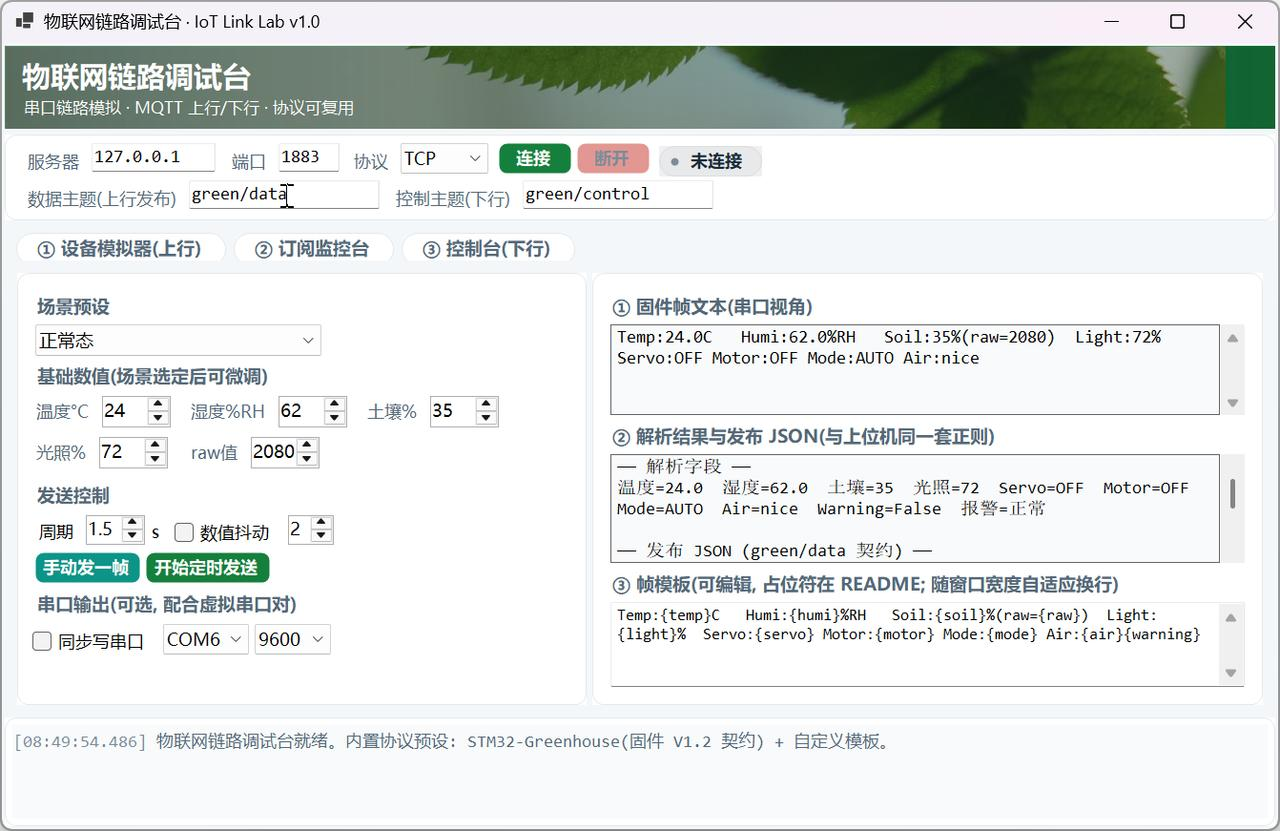
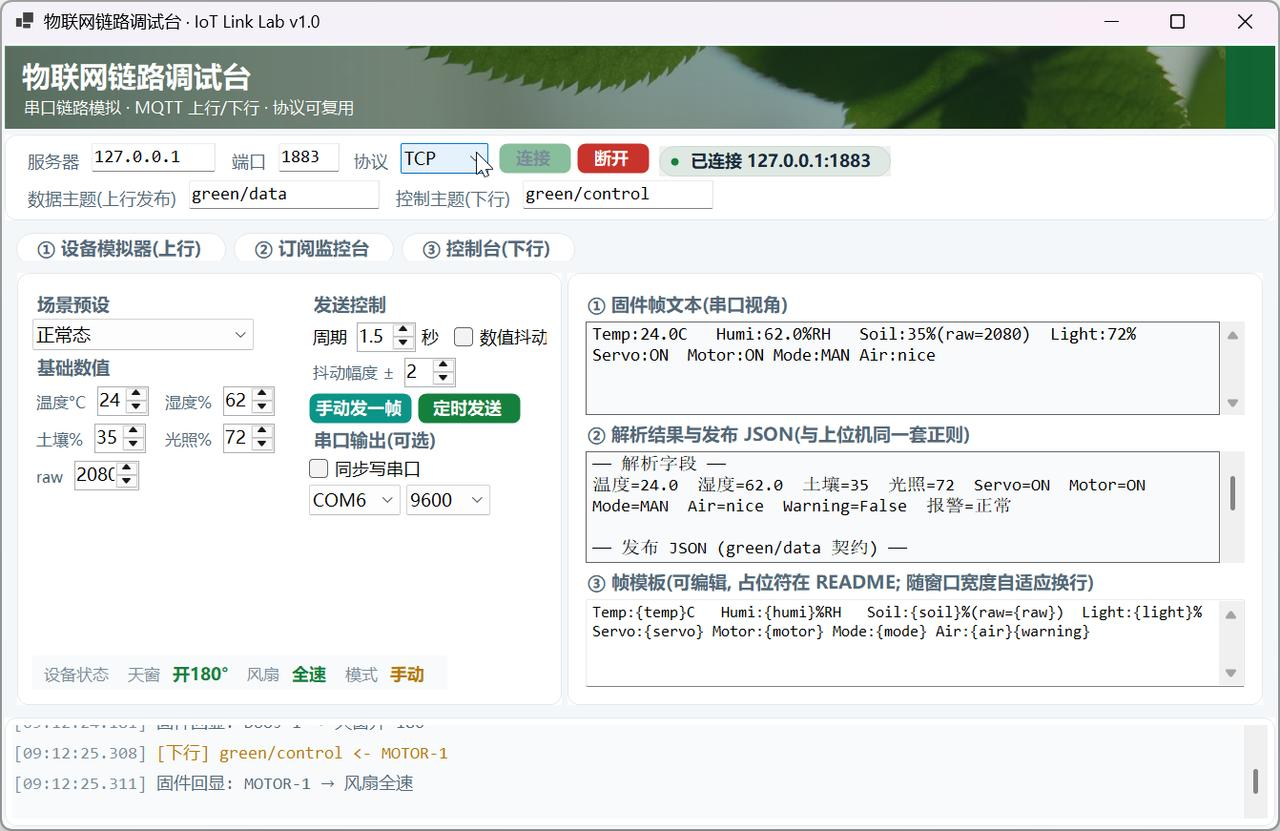
fix(测试工具): 布局按 1280x720 逻辑屏重排 —— 消除全部错位/重叠/裁切
- 根因: 窗口默认 1360x880 超出 1920x1200@150% 的可用区域被系统裁剪, 加上多处
  绝对像素在 DPI 缩放下装不下文字 → 呈现为重叠/截断。改为按 WorkingArea 收敛尺寸
- 导航胶囊重影: Label 基类文本绘制与自绘叠加 → 新建 NavChip 控件(单绘制源, 宽度按文字实测)
- 横幅副标题被裁: 高度改为字体实测计算, 文字绘于 Paint 内按实测高度堆叠居中
- 连接栏超宽截断: 单行改两行 TLP(连接参数 / 数据与控制主题)
- 状态徽章圆点与文字重叠: 剥离文本自带 '● ' 前缀, 宽度按文字自适应
- 左卡改双栏结构(场景+数值 | 发送+串口) + 底部整宽'设备状态'条, 矮屏无需滚动
- 右卡三视图(帧文本 32% / 解析 JSON 38% / 帧模板 30%), 帧模板随宽度换行不再切行
- 窄栏控件尺寸校正(数值框/状态值/串口下拉/raw 四位数), 状态条跨两栏整宽
- 新增设备状态实时刷新(天窗/风扇/模式随下行指令变化) 与 F5 连接 / F6 断开快捷键
- 监控台列表 400 条封顶后不再追加 → 滚动窗口
- 三页截图在 1280x720 逻辑屏实测更新; README 补布局设计与快捷键说明

diff --git a/05-Testing-Tool/WinFormsApp1/SimulatorTab.cs b/05-Testing-Tool/WinFormsApp1/SimulatorTab.cs
@@ -20,6 +20,7 @@ namespace IotLinkLab
         private CheckBox _chkSerial = null!;
         private ComboBox _comPort = null!, _comBaud = null!;
         private SerialPort? _serial;
+        private Label _stateServo = null!, _stateMotor = null!, _stateMode = null!;   // 模拟设备实时状态
 
         private System.Windows.Forms.Timer _timer = null!;
         private readonly Random _rnd = new();
@@ -52,63 +53,109 @@ namespace IotLinkLab
             DoubleBuffered = true;
 
             var root = new TableLayoutPanel { Dock = DockStyle.Fill, ColumnCount = 2, RowCount = 1, BackColor = Color.Transparent };
-            root.ColumnStyles.Add(new ColumnStyle(SizeType.Percent, 46f));
-            root.ColumnStyles.Add(new ColumnStyle(SizeType.Percent, 54f));
+            root.ColumnStyles.Add(new ColumnStyle(SizeType.Percent, 44f));
+            root.ColumnStyles.Add(new ColumnStyle(SizeType.Percent, 56f));
 
-            // ---------- 左列: 参数与发送 ----------
+            // ---------- 左列: 双栏(参数 | 发送与控制), 矮屏也无需滚动 ----------
             var left = new Card { Dock = DockStyle.Fill, Padding = new Padding(Theme.Pad) };
-            var leftFlow = new FlowLayoutPanel { Dock = DockStyle.Fill, FlowDirection = FlowDirection.TopDown, WrapContents = false, AutoScroll = true, BackColor = Color.Transparent };
+            var leftGrid = new TableLayoutPanel { Dock = DockStyle.Fill, ColumnCount = 2, RowCount = 2, BackColor = Color.Transparent };
+            leftGrid.ColumnStyles.Add(new ColumnStyle(SizeType.Percent, 52f));
+            leftGrid.ColumnStyles.Add(new ColumnStyle(SizeType.Percent, 48f));
+            leftGrid.RowStyles.Add(new RowStyle(SizeType.Percent, 100f));   // 双栏区
+            leftGrid.RowStyles.Add(new RowStyle(SizeType.AutoSize));        // 整宽状态条
 
-            leftFlow.Controls.Add(MakeSection("场景预设"));
-            _sceneCombo = new ComboBox { DropDownStyle = ComboBoxStyle.DropDownList, Width = 300, Font = Theme.Ui(9.5F), ItemHeight = 22 };
+            // === 左栏 A: 场景与数值 ===
+            var colA = new FlowLayoutPanel { Dock = DockStyle.Fill, FlowDirection = FlowDirection.TopDown, WrapContents = false, BackColor = Color.Transparent, Margin = new Padding(0, 0, 10, 0) };
+
+            colA.Controls.Add(MakeSection("场景预设"));
+            _sceneCombo = new ComboBox { DropDownStyle = ComboBoxStyle.DropDownList, Width = 232, Font = Theme.Ui(9.5F), ItemHeight = 22, Margin = new Padding(0, 0, 0, 2) };
             foreach (var (key, _, _, _, _, _, _) in FrameCodec.Scenes) _sceneCombo.Items.Add(key);
             _sceneCombo.SelectedIndexChanged += (s, e) => ApplyScene(Math.Max(0, _sceneCombo.SelectedIndex));
-            leftFlow.Controls.Add(_sceneCombo);
+            colA.Controls.Add(_sceneCombo);
 
-            leftFlow.Controls.Add(MakeSection("基础数值(场景选定后可微调)"));
-            // 数字网格: 3 列 × 2 行, 标签与控件同行横排 —— 纵向高度砍半, 左列无需滚动
-            var grid = new TableLayoutPanel { AutoSize = true, AutoSizeMode = AutoSizeMode.GrowAndShrink, ColumnCount = 3, RowCount = 2, BackColor = Color.Transparent, Margin = new Padding(0, 2, 0, 2) };
-            for (int i = 0; i < 3; i++) grid.ColumnStyles.Add(new ColumnStyle(SizeType.AutoSize));
-            grid.RowStyles.Add(new RowStyle(SizeType.AutoSize));
-            grid.RowStyles.Add(new RowStyle(SizeType.AutoSize));
+            colA.Controls.Add(MakeSection("基础数值"));
+            // 2 列 × 3 行(窄栏适配): 标签与微调控件同行横排
+            var grid = new TableLayoutPanel { AutoSize = true, AutoSizeMode = AutoSizeMode.GrowAndShrink, ColumnCount = 2, RowCount = 3, BackColor = Color.Transparent, Margin = new Padding(0, 2, 0, 2) };
+            for (int i = 0; i < 2; i++) grid.ColumnStyles.Add(new ColumnStyle(SizeType.AutoSize));
+            for (int i = 0; i < 3; i++) grid.RowStyles.Add(new RowStyle(SizeType.AutoSize));
             (_numTemp, _) = MakeNum("温度°C", 0, 100, 24, grid, 0, 0);
-            (_numHumi, _) = MakeNum("湿度%RH", 0, 100, 62, grid, 1, 0);
-            (_numSoil, _) = MakeNum("土壤%", 0, 100, 35, grid, 2, 0);
-            (_numLight, _) = MakeNum("光照%", 0, 100, 72, grid, 0, 1);
-            (_numRaw, _) = MakeNum("raw值", 0, 4095, 2080, grid, 1, 1);
-            leftFlow.Controls.Add(grid);
+            (_numHumi, _) = MakeNum("湿度%", 0, 100, 62, grid, 1, 0);
+            (_numSoil, _) = MakeNum("土壤%", 0, 100, 35, grid, 0, 1);
+            (_numLight, _) = MakeNum("光照%", 0, 100, 72, grid, 1, 1);
+            (_numRaw, _) = MakeNum("raw", 0, 4095, 2080, grid, 0, 2);
+            _numRaw.Width = 68;   // 4 位数 + 上下箭头需更宽, 否则 2080 显示成 208
+            colA.Controls.Add(grid);
 
-            leftFlow.Controls.Add(MakeSection("发送控制"));
-            var sendRow = new FlowLayoutPanel { AutoSize = true, AutoSizeMode = AutoSizeMode.GrowAndShrink, BackColor = Color.Transparent, Margin = new Padding(0, 2, 0, 0) };
-            sendRow.Controls.Add(new Label { Text = "周期", AutoSize = true, Font = Theme.Ui(9F), Margin = new Padding(3, 8, 4, 0) });
-            _numInterval = new NumericUpDown { Minimum = 1, Maximum = 60, Value = 1.5m, Increment = 0.5m, Width = 62, DecimalPlaces = 1, Font = Theme.Ui(9F) };
+            // === 左栏 B: 发送控制与串口 ===
+            var colB = new FlowLayoutPanel { Dock = DockStyle.Fill, FlowDirection = FlowDirection.TopDown, WrapContents = false, BackColor = Color.Transparent, Margin = new Padding(10, 0, 0, 0) };
+
+            colB.Controls.Add(MakeSection("发送控制"));
+            var sendRow = new FlowLayoutPanel { AutoSize = true, AutoSizeMode = AutoSizeMode.GrowAndShrink, WrapContents = false, BackColor = Color.Transparent, Margin = new Padding(0, 0, 0, 2) };
+            sendRow.Controls.Add(new Label { Text = "周期", AutoSize = true, Font = Theme.Ui(9F), Margin = new Padding(0, 7, 4, 0) });
+            _numInterval = new NumericUpDown { Minimum = 1, Maximum = 60, Value = 1.5m, Increment = 0.5m, Width = 62, DecimalPlaces = 1, Font = Theme.Ui(9F), Margin = new Padding(0, 4, 2, 0) };
             sendRow.Controls.Add(_numInterval);
-            sendRow.Controls.Add(new Label { Text = "s", AutoSize = true, Font = Theme.Ui(9F), Margin = new Padding(0, 8, 10, 0) });
-            _chkJitter = new CheckBox { Text = "数值抖动", AutoSize = true, Font = Theme.Ui(9F), Checked = false, Margin = new Padding(0, 8, 8, 0) };
+            sendRow.Controls.Add(new Label { Text = "秒", AutoSize = true, Font = Theme.Ui(9F), Margin = new Padding(0, 7, 10, 0) });
+            _chkJitter = new CheckBox { Text = "数值抖动", AutoSize = true, Font = Theme.Ui(9F), Checked = false, Margin = new Padding(0, 6, 4, 0) };
             sendRow.Controls.Add(_chkJitter);
-            _numJitter = new NumericUpDown { Minimum = 0, Maximum = 20, Value = 2, Width = 48, Font = Theme.Ui(9F) };
-            sendRow.Controls.Add(_numJitter);
-            leftFlow.Controls.Add(sendRow);
+            colB.Controls.Add(sendRow);
 
-            var btnRow = new FlowLayoutPanel { AutoSize = true, AutoSizeMode = AutoSizeMode.GrowAndShrink, BackColor = Color.Transparent, Margin = new Padding(0, 2, 0, 0) };
-            _btnOnce = new RoundedButton { Text = "手动发一帧", Width = 110, FillColor = Theme.Teal };
+            var jitterRow = new FlowLayoutPanel { AutoSize = true, AutoSizeMode = AutoSizeMode.GrowAndShrink, WrapContents = false, BackColor = Color.Transparent, Margin = new Padding(0, 0, 0, 2) };
+            jitterRow.Controls.Add(new Label { Text = "抖动幅度 ±", AutoSize = true, Font = Theme.Ui(8.5F), ForeColor = Theme.TextSecondary, Margin = new Padding(0, 8, 4, 0) });
+            _numJitter = new NumericUpDown { Minimum = 0, Maximum = 20, Value = 2, Width = 54, Font = Theme.Ui(9F), Margin = new Padding(0, 4, 0, 0) };
+            jitterRow.Controls.Add(_numJitter);
+            colB.Controls.Add(jitterRow);
+
+            var btnRow = new FlowLayoutPanel { AutoSize = true, AutoSizeMode = AutoSizeMode.GrowAndShrink, WrapContents = false, BackColor = Color.Transparent, Margin = new Padding(0, 4, 0, 0) };
+            _btnOnce = new RoundedButton { Text = "手动发一帧", Width = 108, FillColor = Theme.Teal, Margin = new Padding(0, 0, 6, 0) };
             _btnOnce.Click += (s, e) => EmitFrame("手动");
-            _btnStart = new RoundedButton { Text = "开始定时发送", Width = 130, FillColor = Theme.Primary };
+            _btnStart = new RoundedButton { Text = "定时发送", Width = 108, FillColor = Theme.Primary, Margin = new Padding(0, 0, 0, 0) };
             _btnStart.Click += BtnStart_Click;
             btnRow.Controls.Add(_btnOnce); btnRow.Controls.Add(_btnStart);
-            leftFlow.Controls.Add(btnRow);
+            colB.Controls.Add(btnRow);
 
-            leftFlow.Controls.Add(MakeSection("串口输出(可选, 配合虚拟串口对)"));
-            var serRow = new FlowLayoutPanel { AutoSize = true, AutoSizeMode = AutoSizeMode.GrowAndShrink, BackColor = Color.Transparent, Margin = new Padding(0, 2, 0, 0) };
-            _chkSerial = new CheckBox { Text = "同步写串口", AutoSize = true, Font = Theme.Ui(9F), Margin = new Padding(0, 8, 8, 0) };
-            _comPort = new ComboBox { DropDownStyle = ComboBoxStyle.DropDownList, Width = 90, Font = Theme.Ui(9F) };
-            _comBaud = new ComboBox { DropDownStyle = ComboBoxStyle.DropDownList, Width = 80, Font = Theme.Ui(9F) };
+            colB.Controls.Add(MakeSection("串口输出(可选)"));
+            _chkSerial = new CheckBox { Text = "同步写串口", AutoSize = true, Font = Theme.Ui(9F), Margin = new Padding(0, 2, 0, 2) };
+            colB.Controls.Add(_chkSerial);
+            var serRow = new FlowLayoutPanel { AutoSize = true, AutoSizeMode = AutoSizeMode.GrowAndShrink, WrapContents = false, BackColor = Color.Transparent, Margin = new Padding(0, 0, 0, 0) };
+            _comPort = new ComboBox { DropDownStyle = ComboBoxStyle.DropDownList, Width = 96, Font = Theme.Ui(9F), Margin = new Padding(0, 0, 6, 0) };
+            _comBaud = new ComboBox { DropDownStyle = ComboBoxStyle.DropDownList, Width = 88, Font = Theme.Ui(9F), Margin = new Padding(0, 0, 0, 0) };
             _comBaud.Items.AddRange(new object[] { "9600", "19200", "115200" });
             _comBaud.SelectedIndex = 0;
-            serRow.Controls.Add(_chkSerial); serRow.Controls.Add(_comPort); serRow.Controls.Add(_comBaud);
-            leftFlow.Controls.Add(serRow);
+            serRow.Controls.Add(_comPort); serRow.Controls.Add(_comBaud);
+            colB.Controls.Add(serRow);
 
-            left.Controls.Add(leftFlow);
+            leftGrid.Controls.Add(colA, 0, 0);
+            leftGrid.Controls.Add(colB, 1, 0);
+
+            // 设备状态条: 跨两栏整宽, 三段状态一行排开
+            var stateWrap = new FlowLayoutPanel
+            {
+                Dock = DockStyle.Fill,
+                AutoSize = true,
+                AutoSizeMode = AutoSizeMode.GrowAndShrink,
+                WrapContents = false,
+                BackColor = Color.Transparent,
+                Margin = new Padding(0, 8, 0, 0)
+            };
+            var stateStrip = new FlowLayoutPanel
+            {
+                AutoSize = true,
+                AutoSizeMode = AutoSizeMode.GrowAndShrink,
+                WrapContents = false,
+                BackColor = Theme.FieldBg,
+                Padding = new Padding(8, 4, 8, 4),
+                Margin = new Padding(0, 0, 0, 0)
+            };
+            stateStrip.Controls.Add(new Label { Text = "设备状态", AutoSize = true, Font = Theme.Ui(8.5F), ForeColor = Theme.TextTertiary, Margin = new Padding(0, 4, 10, 0) });
+            _stateServo = MakeStateCell(stateStrip, "天窗");
+            _stateMotor = MakeStateCell(stateStrip, "风扇");
+            _stateMode = MakeStateCell(stateStrip, "模式");
+            stateWrap.Controls.Add(stateStrip);
+            leftGrid.Controls.Add(stateWrap, 0, 1);
+            leftGrid.SetColumnSpan(stateWrap, 2);
+            RefreshStateLabels();
+
+            left.Controls.Add(leftGrid);
 
             // ---------- 右列: 三层预览 ----------
             var right = new Card { Dock = DockStyle.Fill, Padding = new Padding(Theme.Pad) };
@@ -139,7 +186,7 @@ namespace IotLinkLab
         private Label MakeSection(string text) => new()
         {
             Text = text, AutoSize = true, Font = Theme.Ui(9.5F, bold: true),
-            ForeColor = Theme.TextSecondary, Margin = new Padding(0, 6, 0, 3), BackColor = Color.Transparent
+            ForeColor = Theme.TextSecondary, Margin = new Padding(0, 4, 0, 2), BackColor = Color.Transparent
         };
 
         private TextBox MakePreview(Font font) => new()
@@ -148,11 +195,40 @@ namespace IotLinkLab
             Font = font, BorderStyle = BorderStyle.FixedSingle, ScrollBars = ScrollBars.Vertical
         };
 
+        /// <summary>状态单元格(单行): 小标题 + 值, 值随下行指令刷新。</summary>
+        private static Label MakeStateCell(FlowLayoutPanel strip, string title)
+        {
+            strip.Controls.Add(new Label
+            {
+                Text = title, AutoSize = true, Font = Theme.Ui(8.5F),
+                ForeColor = Theme.TextTertiary, Margin = new Padding(0, 4, 2, 0)
+            });
+            var val = new Label
+            {
+                Text = "--", AutoSize = true, Font = Theme.Ui(9F, bold: true),
+                ForeColor = Theme.TextSecondary, Margin = new Padding(0, 3, 9, 0)
+            };
+            strip.Controls.Add(val);
+            return val;
+        }
+
+        /// <summary>刷新三段状态文字与配色(手动/自动、开/关各有专属色)。</summary>
+        private void RefreshStateLabels()
+        {
+            if (_stateServo == null) return;
+            _stateServo.Text = ServoState == "ON" ? "开180°" : "关0°";
+            _stateServo.ForeColor = ServoState == "ON" ? Theme.Primary : Theme.TextSecondary;
+            _stateMotor.Text = MotorState == "ON" ? "全速" : "停";
+            _stateMotor.ForeColor = MotorState == "ON" ? Theme.Primary : Theme.TextSecondary;
+            _stateMode.Text = ModeState == "MAN" ? "手动" : "自动";
+            _stateMode.ForeColor = ModeState == "MAN" ? Theme.Warning : Theme.Teal;
+        }
+
         private (NumericUpDown, Label) MakeNum(string label, decimal min, decimal max, decimal val, TableLayoutPanel grid, int col, int row)
         {
-            var wrap = new FlowLayoutPanel { AutoSize = true, AutoSizeMode = AutoSizeMode.GrowAndShrink, WrapContents = false, BackColor = Color.Transparent, Margin = new Padding(0, 0, 14, 4) };
-            wrap.Controls.Add(new Label { Text = label, AutoSize = true, Font = Theme.Ui(9F), ForeColor = Theme.TextSecondary, Margin = new Padding(0, 7, 5, 0) });
-            var num = new NumericUpDown { Minimum = min, Maximum = max, Value = val, Width = 72, Font = Theme.Ui(9.5F) };
+            var wrap = new FlowLayoutPanel { AutoSize = true, AutoSizeMode = AutoSizeMode.GrowAndShrink, WrapContents = false, BackColor = Color.Transparent, Margin = new Padding(0, 0, 10, 2) };
+            wrap.Controls.Add(new Label { Text = label, AutoSize = true, Font = Theme.Ui(8.5F), ForeColor = Theme.TextSecondary, Margin = new Padding(0, 8, 3, 0) });
+            var num = new NumericUpDown { Minimum = min, Maximum = max, Value = val, Width = 54, Font = Theme.Ui(9F) };
             num.ValueChanged += (s, e) => UpdatePreviews();
             wrap.Controls.Add(num);
             grid.Controls.Add(wrap, col, row);
@@ -308,6 +384,7 @@ namespace IotLinkLab
             {
                 Log?.Invoke($"固件忽略 {cmd}(自动模式下设备归报警联动管辖)");
             }
+            RefreshStateLabels();
             UpdatePreviews();
         }
 

diff --git a/05-Testing-Tool/WinFormsApp1/Form1.cs b/05-Testing-Tool/WinFormsApp1/Form1.cs
@@ -31,8 +31,13 @@ namespace IotLinkLab
         public Form1()
         {
             Text = "物联网链路调试台 · IoT Link Lab v1.0";
-            MinimumSize = new Size(1180, 800);
-            Size = new Size(1360, 880);
+            // 尺寸按屏幕可用区域收敛: 高分屏 150% 缩放下逻辑分辨率只有 ~1280x720,
+            // 写死 1360x880 会超出屏幕被系统裁剪, 造成内容"看起来"重叠/截断。
+            Rectangle wa = Screen.PrimaryScreen?.WorkingArea ?? new Rectangle(0, 0, 1280, 720);
+            int w = Math.Min(1360, wa.Width - 24);
+            int h = Math.Min(880, wa.Height - 24);
+            MinimumSize = new Size(Math.Min(1040, wa.Width - 24), Math.Min(600, wa.Height - 24));
+            Size = new Size(w, h);
             StartPosition = FormStartPosition.CenterScreen;
             BackColor = Theme.PageBg;
             DoubleBuffered = true;
@@ -41,6 +46,19 @@ namespace IotLinkLab
             BuildUi();
             WireEvents();
             LoadSettings();
+
+            // 快捷键: F5 连接 / F6 断开(便于演示与自动化验证)
+            KeyPreview = true;
+            KeyDown += async (s, e) =>
+            {
+                if (e.KeyCode == Keys.F5 && _btnConnect.Enabled) { e.Handled = true; await ConnectAsync(); }
+                else if (e.KeyCode == Keys.F6 && _btnDisconnect.Enabled)
+                {
+                    e.Handled = true;
+                    await _link.DisconnectAsync();
+                    SaveSettings();
+                }
+            };
             Shown += (s, e) => Log("物联网链路调试台就绪。内置协议预设: STM32-Greenhouse(固件 V1.2 契约) + 自定义模板。", Theme.TextSecondary);
         }
 

diff --git a/05-Testing-Tool/README.md b/05-Testing-Tool/README.md
@@ -29,7 +29,7 @@
 - **发送控制**：手动单发 / 定时轮发（周期可调，默认 1.5s 对齐固件）/ 可选数值抖动模拟真实波动
 - **三层预览**：固件帧文本（串口视角）→ 解析字段（与上位机同一套正则）→ 发布 JSON（green/data 契约）
 - **可选串口输出**：勾选后帧文本同步写入真实 COM（配合虚拟串口对 com0com，让**真实的智能温室.exe** 走完整"串口→解析→发布"链路）
-- **固件模拟回显**：收到控制指令后自动更新模拟设备状态（开窗→下一帧 `Servo:ON`），实现无硬件闭环
+- **固件模拟回显**：收到控制指令后自动更新模拟设备状态（开窗→下一帧 `Servo:ON`），左卡底部"设备状态"条实时反映天窗/风扇/模式
 
 ### ② 订阅监控台
 
@@ -76,6 +76,15 @@ Soil:(\d+)% / Light:(\d+)% / Servo:(ON|OFF) / Motor:(ON|OFF) / Mode:(AUTO|MAN) /
 ```
 
 统一报警阈值（三端一致）：温度>26°C / 湿度>85%RH / 土壤>40%（过湿）/ 空气 bad。
+
+## 布局设计说明
+
+界面按 **1280×720 逻辑分辨率（1920×1200 屏 @150% 缩放）** 设计并实测，窗口尺寸自动收敛到屏幕可用区域：
+
+- 顶部：温室横幅（高度按字体实测计算，任何 DPI 不裁字）→ 连接配置两行卡 → 导航胶囊
+- 主区：**左卡双栏**（场景预设+基础数值 | 发送控制+串口输出）+ 底部整宽"设备状态"条；**右卡三段**（① 帧文本 / ② 解析与 JSON / ③ 帧模板编辑）
+- 底部：分级着色的运行日志
+- 快捷键：`F5` 连接 / `F6` 断开
 
 ## 快速开始
 
